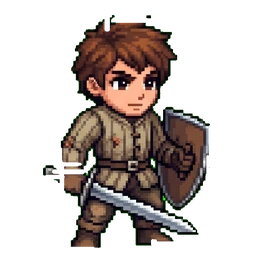
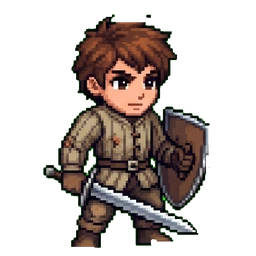
Kesim yarığı: trim_lines yatay şeridi yalnız üst/alt bantta, dikey şeridi yalnız yan bantta siler; human-erkek-fighter-GR yeniden kesildi; yarık taraması (729 aday, yalnız rapor)

diff --git a/scripts/kesim-yarik-tara.py b/scripts/kesim-yarik-tara.py
@@ -1,0 +1,114 @@
+"""
+Kesim yarığı taraması (yalnız rapor): toplu kesimin `drop_lines` adımı figürün içindeki ince yatay/dikey parçaları (kabza, bilek, manşet,
+asa) ızgara çizgisi sanıp silebiliyor; jetonda figürün İÇİNDE düz, ince (≤ 6 px) saydam bir yarık ve çoğu zaman kopuk küçük bir parça
+kalıyor (örnek: human-erkek-fighter-GR, kabza ile bilek arası).
+
+Ölçü (256 px jeton, alfa > 100): saydam piksel, üstünde ve altında (ya da solunda ve sağında) 6 px içinde opak piksel varsa "yarık pikseli".
+Ardışık sütunlarda yarığın üst ve alt kenarı aynı satırda (± 1 px; cetvelle kesilmiş gibi) ve koşu ≥ ESIK px ise düz yarık. Doğal
+boşlukların (bacak arası, kol-gövde) kenarı eğridir; yine de kesin karar görsele bakılarak verilir: kontak sayfası en yüksek puanlıları gösterir.
+
+Çalıştırma: python scripts/kesim-yarik-tara.py [--esik 14] [--hepsi]
+Çıktı: harita/belgeler/KESIM-YARIK-TARAMA.md, gorsel-dokum/kesim-yarik/en-yuksek.png (commit edilmez).
+"""
+import os, sys
+import numpy as np
+from PIL import Image, ImageDraw, ImageFont
+
+ROOT = os.path.dirname(os.path.dirname(os.path.abspath(__file__))); os.chdir(ROOT)
+ESIK = int(sys.argv[sys.argv.index('--esik') + 1]) if '--esik' in sys.argv else 14
+PUB = 'public/characters'; OUT = 'gorsel-dokum/kesim-yarik'; MD = 'harita/belgeler/KESIM-YARIK-TARAMA.md'
+KAL = 6   # yarık en çok bu kalınlıkta
+os.makedirs(OUT, exist_ok=True)
+try: FONT = ImageFont.truetype('arial.ttf', 11)
+except OSError: FONT = ImageFont.load_default()
+
+def runs(row):
+    """Bir satırdaki True koşuları → [(başlangıç, uzunluk)]."""
+    d = np.diff(np.concatenate([[0], row.astype(np.int8), [0]]))
+    s = np.where(d == 1)[0]; e = np.where(d == -1)[0]
+    return list(zip(s, e - s))
+
+def slit(a):
+    """Düz kesim yarığı: saydam, 1–KAL px kalın, iki ucu opak (sütun boyunca: üst ve alt kenar); ardışık sütunlarda üst ve alt kenar
+    AYNI satırda (± 1; cetvelle kesilmiş gibi). Doğal boşlukların kenarı eğridir. → (en uzun düz koşu, yön, satır, başlangıç) ya da None."""
+    best = (0, None, None, None)
+    for axis in (0, 1):
+        m = a if axis == 0 else a.T          # m[y, x]: x sütununda y boyunca yarık aranır
+        h, w = m.shape
+        seg = {}                              # x → [(üst, alt)] saydam bölümler (iki ucu opak, kalınlık ≤ KAL)
+        for x in range(w):
+            col = m[:, x]
+            if not col.any(): continue
+            ys = np.where(col)[0]; lo, hi = ys[0], ys[-1]
+            out = []
+            for st, n in runs(~col[lo:hi + 1]):
+                if 2 <= n <= KAL: out.append((lo + st, lo + st + n))   # 1 px boşluk çizgi arası doğal ayrım; kesim bandı ≥ 2 px
+            seg[x] = out
+        run_x, run_seg, run_n = None, None, 0
+        def close():
+            nonlocal best
+            if run_n > best[0]: best = (run_n, 'yatay' if axis == 0 else 'dikey', run_seg[0], run_x)
+        for x in range(w):
+            hit = None
+            if run_seg is not None:
+                hit = next((sg for sg in seg.get(x, []) if abs(sg[0] - run_seg[0]) <= 1 and abs(sg[1] - run_seg[1]) <= 1), None)
+            if hit is not None: run_n += 1; continue
+            if run_seg is not None: close()
+            run_seg, run_x, run_n = None, None, 0
+            for sg in seg.get(x, []):
+                # yeni koşu: sonraki sütunda da aynı bölüm varsa başlat
+                if any(abs(sg[0] - t[0]) <= 1 and abs(sg[1] - t[1]) <= 1 for t in seg.get(x + 1, [])):
+                    run_seg, run_x, run_n = sg, x, 1; break
+        if run_seg is not None: close()
+    return best if best[0] else None
+
+def fragments(a):
+    """Gövdeye 4 px içinde ama kopuk küçük parçalar (15–600 px)."""
+    from scipy import ndimage as ndi
+    lab, n = ndi.label(a, structure=np.ones((3, 3)))
+    if n < 2: return 0
+    sz = ndi.sum(a, lab, range(1, n + 1)); body = lab == (1 + int(np.argmax(sz)))
+    near = ndi.binary_dilation(body, iterations=4)
+    return sum(1 for k in range(1, n + 1) if 15 <= sz[k - 1] <= 600 and (near & (lab == k)).any() and not (body & (lab == k)).any())
+
+files = sorted(f for f in os.listdir(PUB) if f.endswith('.webp'))
+hits = []
+for f in files:
+    a = np.asarray(Image.open(f'{PUB}/{f}').convert('RGBA'))[..., 3] > 100
+    s = slit(a)
+    if s and s[0] >= ESIK:
+        hits.append((s[0], fragments(a), f, s))
+hits.sort(key=lambda h: (-h[1] > 0, -h[0]))
+hits.sort(key=lambda h: (-(h[1] > 0), -h[0]))
+
+# kontak: başvuru örneği (human-erkek-fighter-GR) + en yüksek 59; her biri bütün jeton | yarığın çevresi 3× büyütülmüş (kırmızı çerçeve)
+ref = [h for h in hits if h[2] == 'human-erkek-fighter-GR.webp']
+top = ref + [h for h in hits if h not in ref][:59]; s = 150; z = 150; cols = 4
+im = Image.new('RGB', (cols * (s + z + 14), 24 + ((len(top) + cols - 1) // cols) * (s + 30)), (24, 27, 33)); d = ImageDraw.Draw(im)
+d.text((6, 5), f'Kesim yarığı adayları (düz saydam yarık ≥ {ESIK} px): jeton | yarık çevresi 3× (ilk: başvuru örneği human-erkek-fighter-GR)', fill=(232, 228, 218), font=FONT)
+for i, (n, fr, f, (ln, yon, y, x0)) in enumerate(top):
+    t = Image.open(f'{PUB}/{f}').convert('RGBA'); bg = Image.new('RGBA', t.size, (58, 63, 74, 255)); bg.alpha_composite(t)
+    cx, cy = (x0 + ln / 2, y) if yon == 'yatay' else (y, x0 + ln / 2)
+    box = (int(max(0, min(206, cx - 25))), int(max(0, min(206, cy - 25)))); box = box + (box[0] + 50, box[1] + 50)
+    zoom = bg.crop(box).resize((z, z), Image.NEAREST); ImageDraw.Draw(bg).rectangle(box, outline=(255, 60, 60, 255))
+    x = (i % cols) * (s + z + 14); yy = 24 + (i // cols) * (s + 30)
+    im.paste(bg.resize((s, s), Image.NEAREST).convert('RGB'), (x, yy)); im.paste(zoom.convert('RGB'), (x + s + 4, yy))
+    d.text((x, yy + s + 2), f[:-5][:40], fill=(200, 205, 215), font=FONT)
+    d.text((x, yy + s + 15), f'{yon} {ln} px, kopuk parça {fr}', fill=(255, 150, 150) if fr else (200, 205, 215), font=FONT)
+im.save(f'{OUT}/en-yuksek.png')
+
+L = ['# Kesim yarığı taraması', '', f'Üretildi: `python scripts/kesim-yarik-tara.py` (eşik {ESIK} px). **Yalnız rapor**; jeton değiştirilmedi.', '',
+     'Aranan kusur: toplu kesimin `drop_lines` adımı (`scripts/toplu-kesim.py`) ince yatay/dikey figür parçalarını (kabza, bilek, manşet) '
+     'ızgara çizgisi sanıp siliyor; figürün içinde düz, ince saydam yarık ve çoğu zaman yanında kopuk küçük parça kalıyor '
+     '(örnek `human-erkek-fighter-GR`). Ölçü: figürün içinde 1–6 px kalın saydam bölüm (iki ucu opak); ardışık sütunlarda üst ve alt '
+     'kenarı aynı satırda (± 1 px), koşu uzunluğu ≥ eşik. Kopuk parça: gövdeye 4 px yakın ama ayrık 15–600 px bileşen. Doğal boşluklar da yakalanabilir: karar görselle.', '',
+     f'Taranan: {len(files)} jeton (`public/characters/*.webp`, küçük kopyalar hariç); aday: **{len(hits)}**; kopuk parçalı aday: **{sum(1 for h in hits if h[1])}**.', '',
+     'Görsel: `gorsel-dokum/kesim-yarik/en-yuksek.png` (en yüksek 60).', '',
+     '| Jeton | Yön | Yarık (px) | Kopuk parça |', '|---|---|---:|---:|']
+for n, fr, f, (ln, yon, y, x0) in hits[: (len(hits) if '--hepsi' in sys.argv else 120)]:
+    L.append(f'| `{f[:-5]}` | {yon} | {ln} | {fr} |')
+if len(hits) > 120 and '--hepsi' not in sys.argv: L.append(f'| … | | | (+{len(hits) - 120}; `--hepsi`) |')
+open(MD, 'w', encoding='utf-8', newline='\n').write('\n'.join(L) + '\n')
+print(len(files), 'jeton;', len(hits), 'aday;', sum(1 for h in hits if h[1]), 'kopuk parçalı')
+for h in hits[:25]: print(h[2], h[3][1], h[0], 'kopuk', h[1])
+print('human-erkek-fighter-GR:', [h for h in hits if h[2] == 'human-erkek-fighter-GR.webp'])

diff --git a/scripts/toplu-kesim.py b/scripts/toplu-kesim.py
@@ -416,15 +416,23 @@ def drop_lines(fg):
     return ln
 
 def trim_lines(rgba):
-    """Kutunun dış bandına (14 px) değen koyu ince uzun şeritler (ızgara çizgisi artığı) silinir."""
+    """Kutunun dış bandında (16 px) kutu kenarı boyunca uzanan koyu ince uzun şeritler (ızgara çizgisi artığı) silinir: YATAY şerit yalnız
+    üst/alt bantta, DİKEY şerit yalnız sol/sağ bantta. 2026-11-22: eskiden her yöndeki şerit herhangi bir banda değince siliniyordu; kutu
+    figürün kendi sınırı olduğundan kenara değen koyu yatay figür parçası (kabza, bilek, manşet, zincir) yarık bırakıyordu
+    (human-erkek-fighter-GR; tarama `python scripts/kesim-yarik-tara.py`)."""
     a = rgba.copy(); al = a[..., 3] > 0; dk = al & (a[..., :3].max(axis=2) < 80)
-    ln = ndi.binary_opening(dk, structure=np.ones((1, 40), bool)) | ndi.binary_opening(dk, structure=np.ones((40, 1), bool))
-    ln &= ~ndi.binary_dilation(ndi.binary_opening(dk, structure=np.ones((14, 14), bool)), iterations=3)
-    if not ln.any(): return a
-    lab, n = ndi.label(ln, structure=np.ones((3, 3)))
-    band = np.zeros_like(ln); band[:16] = band[-16:] = True; band[:, :16] = band[:, -16:] = True
-    hit = set(np.unique(lab[band & (lab > 0)]))
-    if hit: a[ndi.binary_dilation(np.isin(lab, list(hit)), iterations=2), 3] = 0
+    solid = ndi.binary_dilation(ndi.binary_opening(dk, structure=np.ones((14, 14), bool)), iterations=3)
+    lh = ndi.binary_opening(dk, structure=np.ones((1, 40), bool)) & ~solid
+    lv = ndi.binary_opening(dk, structure=np.ones((40, 1), bool)) & ~solid
+    tb = np.zeros_like(dk); tb[:16] = tb[-16:] = True
+    lr = np.zeros_like(dk); lr[:, :16] = lr[:, -16:] = True
+    kill = np.zeros_like(dk)
+    for ln, band in ((lh, tb), (lv, lr)):
+        if not ln.any(): continue
+        lab, n = ndi.label(ln, structure=np.ones((3, 3)))
+        hit = set(np.unique(lab[band & (lab > 0)])) - {0}
+        if hit: kill |= np.isin(lab, list(hit))
+    if kill.any(): a[ndi.binary_dilation(kill, iterations=2), 3] = 0
     return a
 
 def sheet_kind(img, box, fg):

diff --git a/harita/belgeler/KESIM-YARIK-TARAMA.md b/harita/belgeler/KESIM-YARIK-TARAMA.md
@@ -1,0 +1,133 @@
+# Kesim yarığı taraması
+
+Üretildi: `python scripts/kesim-yarik-tara.py` (eşik 10 px). **Yalnız rapor**; jeton değiştirilmedi.
+
+Aranan kusur: toplu kesimin `drop_lines` adımı (`scripts/toplu-kesim.py`) ince yatay/dikey figür parçalarını (kabza, bilek, manşet) ızgara çizgisi sanıp siliyor; figürün içinde düz, ince saydam yarık ve çoğu zaman yanında kopuk küçük parça kalıyor (örnek `human-erkek-fighter-GR`). Ölçü: figürün içinde 1–6 px kalın saydam bölüm (iki ucu opak); ardışık sütunlarda üst ve alt kenarı aynı satırda (± 1 px), koşu uzunluğu ≥ eşik. Kopuk parça: gövdeye 4 px yakın ama ayrık 15–600 px bileşen. Doğal boşluklar da yakalanabilir: karar görselle.
+
+Taranan: 2900 jeton (`public/characters/*.webp`, küçük kopyalar hariç); aday: **729**; kopuk parçalı aday: **223**.
+
+Görsel: `gorsel-dokum/kesim-yarik/en-yuksek.png` (en yüksek 60).
+
+| Jeton | Yön | Yarık (px) | Kopuk parça |
+|---|---|---:|---:|
+| `dragonborn-kadin-rogue-ID7` | yatay | 126 | 1 |
+| `dragonborn-erkek-rogue-ID7` | yatay | 121 | 1 |
+| `dragonborn-kadin-monk-ID8` | yatay | 89 | 1 |
+| `halfling-kadin-sorcerer-SC-3` | yatay | 67 | 1 |
+| `tiefling-kadin-bard-ID1` | yatay | 50 | 1 |
+| `celestial-erkek-barbarian-ID8` | yatay | 33 | 2 |
+| `elf-female-warlock` | dikey | 32 | 2 |
+| `elf-male-warlock` | dikey | 32 | 3 |
+| `dragonborn-kadin-druid-ID4` | dikey | 29 | 3 |
+| `halfling-male-warlock` | dikey | 28 | 1 |
+| `dragonborn-kadin-druid-ID2` | yatay | 25 | 3 |
+| `elf-kadin-druid-ID7` | yatay | 24 | 2 |
+| `tiefling-kadin-druid-GR` | dikey | 24 | 3 |
+| `celestial-male-warlock` | dikey | 23 | 4 |
+| `elf-erkek-warlock-WL-2` | yatay | 23 | 1 |
+| `dragonborn-kadin-warlock-WL-2` | yatay | 22 | 1 |
+| `gnome-erkek-warlock-WL-2` | yatay | 22 | 1 |
+| `goliath-erkek-rogue-GR` | yatay | 22 | 1 |
+| `halfling-kadin-barbarian-GR` | yatay | 22 | 1 |
+| `halfling-kadin-fighter-GR` | dikey | 22 | 1 |
+| `halfling-kadin-monk-GR` | yatay | 22 | 1 |
+| `dragonborn-kadin-monk-ID9` | yatay | 21 | 3 |
+| `dwarf-kadin-warlock-WL-2` | yatay | 21 | 1 |
+| `elf-kadin-warlock-WL-2` | yatay | 21 | 1 |
+| `gnome-erkek-druid-GR` | yatay | 21 | 1 |
+| `human-erkek-warlock-WL-2` | yatay | 21 | 1 |
+| `human-kadin-warlock-WL-2` | yatay | 21 | 2 |
+| `tiefling-erkek-warlock-WL-1` | yatay | 21 | 1 |
+| `tiefling-erkek-warlock-WL-4` | yatay | 21 | 1 |
+| `celestial-erkek-warlock-WL-2` | yatay | 20 | 2 |
+| `dragonborn-erkek-warlock-WL-2` | yatay | 20 | 1 |
+| `human-erkek-wizard-WZ-A5` | dikey | 20 | 3 |
+| `celestial-erkek-warlock-WL-1` | yatay | 19 | 1 |
+| `dragonborn-kadin-paladin-ID10` | dikey | 19 | 1 |
+| `dragonborn-kadin-warlock-WL-1` | yatay | 19 | 1 |
+| `dwarf-erkek-druid-GR` | yatay | 19 | 1 |
+| `dwarf-male-warlock` | yatay | 19 | 2 |
+| `elf-erkek-warlock-WL-1` | yatay | 19 | 1 |
+| `gnome-male-warlock` | dikey | 19 | 2 |
+| `halfling-erkek-bard-GR` | yatay | 19 | 1 |
+| `human-male-warlock` | dikey | 19 | 2 |
+| `dragonborn-erkek-warlock-WL-4` | yatay | 18 | 1 |
+| `dragonborn-kadin-paladin-ID2` | dikey | 18 | 1 |
+| `goliath-erkek-sorcerer-SC-3` | dikey | 18 | 3 |
+| `halfling-female-warlock` | dikey | 18 | 1 |
+| `human-erkek-druid-ID7` | dikey | 18 | 1 |
+| `orc-kadin-barbarian-GR` | yatay | 18 | 2 |
+| `celestial-erkek-warlock-WL-4` | yatay | 17 | 2 |
+| `dragonborn-kadin-fighter-ID3` | dikey | 17 | 1 |
+| `gnome-erkek-ranger-GR` | dikey | 17 | 1 |
+| `goliath-erkek-druid-ID7` | dikey | 17 | 1 |
+| `goliath-kadin-cleric-ID7` | dikey | 17 | 1 |
+| `goliath-kadin-monk-GR` | yatay | 17 | 1 |
+| `halfling-erkek-druid-ID7` | dikey | 17 | 2 |
+| `orc-kadin-warlock-GR` | dikey | 17 | 1 |
+| `dragonborn-kadin-fighter-ID8` | dikey | 16 | 3 |
+| `dragonborn-kadin-monk-GR` | yatay | 16 | 2 |
+| `dragonborn-kadin-warlock-WL-4` | yatay | 16 | 1 |
+| `dwarf-erkek-monk-GR` | yatay | 16 | 1 |
+| `dwarf-erkek-warlock-WL-4` | yatay | 16 | 4 |
+| `dwarf-kadin-druid-GR` | dikey | 16 | 2 |
+| `elf-erkek-barbarian-ID3` | yatay | 16 | 2 |
+| `elf-kadin-monk-GR` | dikey | 16 | 1 |
+| `goliath-kadin-druid-GR` | yatay | 16 | 1 |
+| `halfling-kadin-sorcerer-GR` | yatay | 16 | 1 |
+| `human-kadin-monk-ID10` | yatay | 16 | 4 |
+| `orc-kadin-cleric-ID6` | dikey | 16 | 2 |
+| `orc-kadin-wizard-WZ-A5` | dikey | 16 | 1 |
+| `tiefling-kadin-druid-ID7` | dikey | 16 | 2 |
+| `tiefling-kadin-wizard-WZ-A1` | dikey | 16 | 1 |
+| `celestial-kadin-wizard-WZ-A5` | dikey | 15 | 1 |
+| `dragonborn-kadin-paladin-GR` | dikey | 15 | 1 |
+| `dragonborn-kadin-sorcerer-SC-3` | yatay | 15 | 4 |
+| `elf-erkek-warlock-WL-4` | dikey | 15 | 3 |
+| `gnome-female-warlock` | dikey | 15 | 2 |
+| `gnome-kadin-wizard-WZ-B5` | yatay | 15 | 1 |
+| `goliath-kadin-druid-ID7` | dikey | 15 | 1 |
+| `halfling-kadin-druid-GR` | yatay | 15 | 1 |
+| `human-erkek-barbarian-ID8` | yatay | 15 | 2 |
+| `human-kadin-warlock-WL-1` | yatay | 15 | 1 |
+| `orc-kadin-warlock-WL-8` | dikey | 15 | 1 |
+| `tiefling-kadin-monk-GR` | yatay | 15 | 1 |
+| `tiefling-kadin-warlock-WL-1` | dikey | 15 | 1 |
+| `celestial-erkek-cleric-ID4` | dikey | 14 | 1 |
+| `celestial-erkek-druid-ID7` | dikey | 14 | 2 |
+| `celestial-kadin-cleric-ID3` | yatay | 14 | 1 |
+| `dragonborn-erkek-fighter-ID3` | dikey | 14 | 1 |
+| `dragonborn-erkek-sorcerer-SC-1` | dikey | 14 | 1 |
+| `dragonborn-erkek-sorcerer-SC-3` | yatay | 14 | 1 |
+| `dragonborn-erkek-warlock-WL-3` | dikey | 14 | 1 |
+| `dragonborn-kadin-druid-ID8` | yatay | 14 | 1 |
+| `dragonborn-kadin-ranger-ID6` | yatay | 14 | 1 |
+| `elf-erkek-barbarian-ID1` | dikey | 14 | 1 |
+| `elf-erkek-fighter-GR` | yatay | 14 | 1 |
+| `elf-kadin-warlock-WL-4` | yatay | 14 | 3 |
+| `gnome-erkek-wizard-WZ-A5` | dikey | 14 | 3 |
+| `gnome-female-cleric` | yatay | 14 | 1 |
+| `human-erkek-fighter-ID8` | yatay | 14 | 1 |
+| `human-erkek-warlock-WL-1` | yatay | 14 | 1 |
+| `human-erkek-warlock-WL-3` | dikey | 14 | 2 |
+| `human-kadin-monk-GR` | yatay | 14 | 2 |
+| `human-kadin-warlock-WL-6` | dikey | 14 | 1 |
+| `tiefling-erkek-warlock-GR` | dikey | 14 | 1 |
+| `tiefling-erkek-warlock-WL-11` | dikey | 14 | 1 |
+| `tiefling-erkek-warlock-WL-6` | dikey | 14 | 2 |
+| `tiefling-kadin-rogue-GR` | dikey | 14 | 1 |
+| `celestial-erkek-barbarian-GR` | yatay | 13 | 1 |
+| `dragonborn-erkek-bard-ID7` | yatay | 13 | 2 |
+| `dragonborn-kadin-cleric-GR` | dikey | 13 | 1 |
+| `dragonborn-kadin-cleric-ID6` | yatay | 13 | 1 |
+| `dwarf-erkek-wizard-WZ-B5` | dikey | 13 | 1 |
+| `elf-kadin-warlock-WL-3` | yatay | 13 | 1 |
+| `gnome-erkek-druid-ID7` | dikey | 13 | 3 |
+| `halfling-erkek-wizard-WZ-A5` | dikey | 13 | 1 |
+| `halfling-female-sorcerer` | dikey | 13 | 2 |
+| `human-erkek-sorcerer-SC-2` | dikey | 13 | 4 |
+| `human-erkek-warlock-WL-4` | dikey | 13 | 3 |
+| `human-kadin-fighter-ID7` | yatay | 13 | 1 |
+| `human-kadin-paladin-GR` | yatay | 13 | 1 |
+| `orc-erkek-wizard-WZ-A5` | dikey | 13 | 1 |
+| … | | | (+609; `--hepsi`) |

diff --git a/DECISIONS.md b/DECISIONS.md
@@ -2,6 +2,19 @@
 
 Projede alınan içerik ve kural kararlarının kaydı. En yeni karar en üstte.
 
+## Kesim yarığı: `trim_lines` düzeltmesi ve human-erkek-fighter-GR yeniden kesimi (2026-11-22; yalnız görünüm)
+
+- Kök neden: `scripts/toplu-kesim.py` `trim_lines` kutunun dış bandına değen HER koyu ince şeridi (yatay ya da dikey) ızgara artığı sayıp
+  siliyordu; kutu figürün kendi sınırı olduğundan kenara değen koyu yatay figür parçası (kabza, bilek, manşet, zincir) düz bir yarık
+  bırakıyordu (human-erkek-fighter-GR: kabza ile bilek arası, topuz kopuk). Kural: yatay şerit yalnız üst/alt bantta, dikey şerit yalnız
+  sol/sağ bantta silinir (`drop_lines` ve ızgara çizgisi koruması sorumlu değildi; ölçüldü).
+- `python scripts/cc-kesim.py hucre gariban-male-human.jpg gariban 5 human-erkek-fighter-GR`: tek hücre, eski jetonun yerleşimiyle
+  (`align_or_height`), defterde `duzeltme`. Eski dosya `public/characters/_yedek-human-fighter-2026-11-22/` (gitignore).
+- Tarama `python scripts/kesim-yarik-tara.py` → `harita/belgeler/KESIM-YARIK-TARAMA.md`: figür içinde 2–6 px kalın, kenarları cetvel
+  düzü saydam yarık. 2900 jetonda 729 aday (223'ü kopuk parçalı); doğal boşluklar da giriyor, karar görselle
+  (`gorsel-dokum/kesim-yarik/en-yuksek.png`). Gariban bilekleri, Warlock WL-1/WL-2/WL-4 gibi gerçek görünen yarıklar var; toplu yeniden
+  kesim kullanıcı onayı bekliyor.
+
 ## Goliath: bütün jetona soy filtresi, kafa kaplaması kapalı (2026-11-22; kullanıcı kararı, yalnız görünüm)
 
 - Otomatik ten maskesi Goliath'ta yalnız başı kapsıyordu (`maskAlt.headOnly`): ırk kaydında `otoMaske: false` (`data/soy-renkleri.json`);
